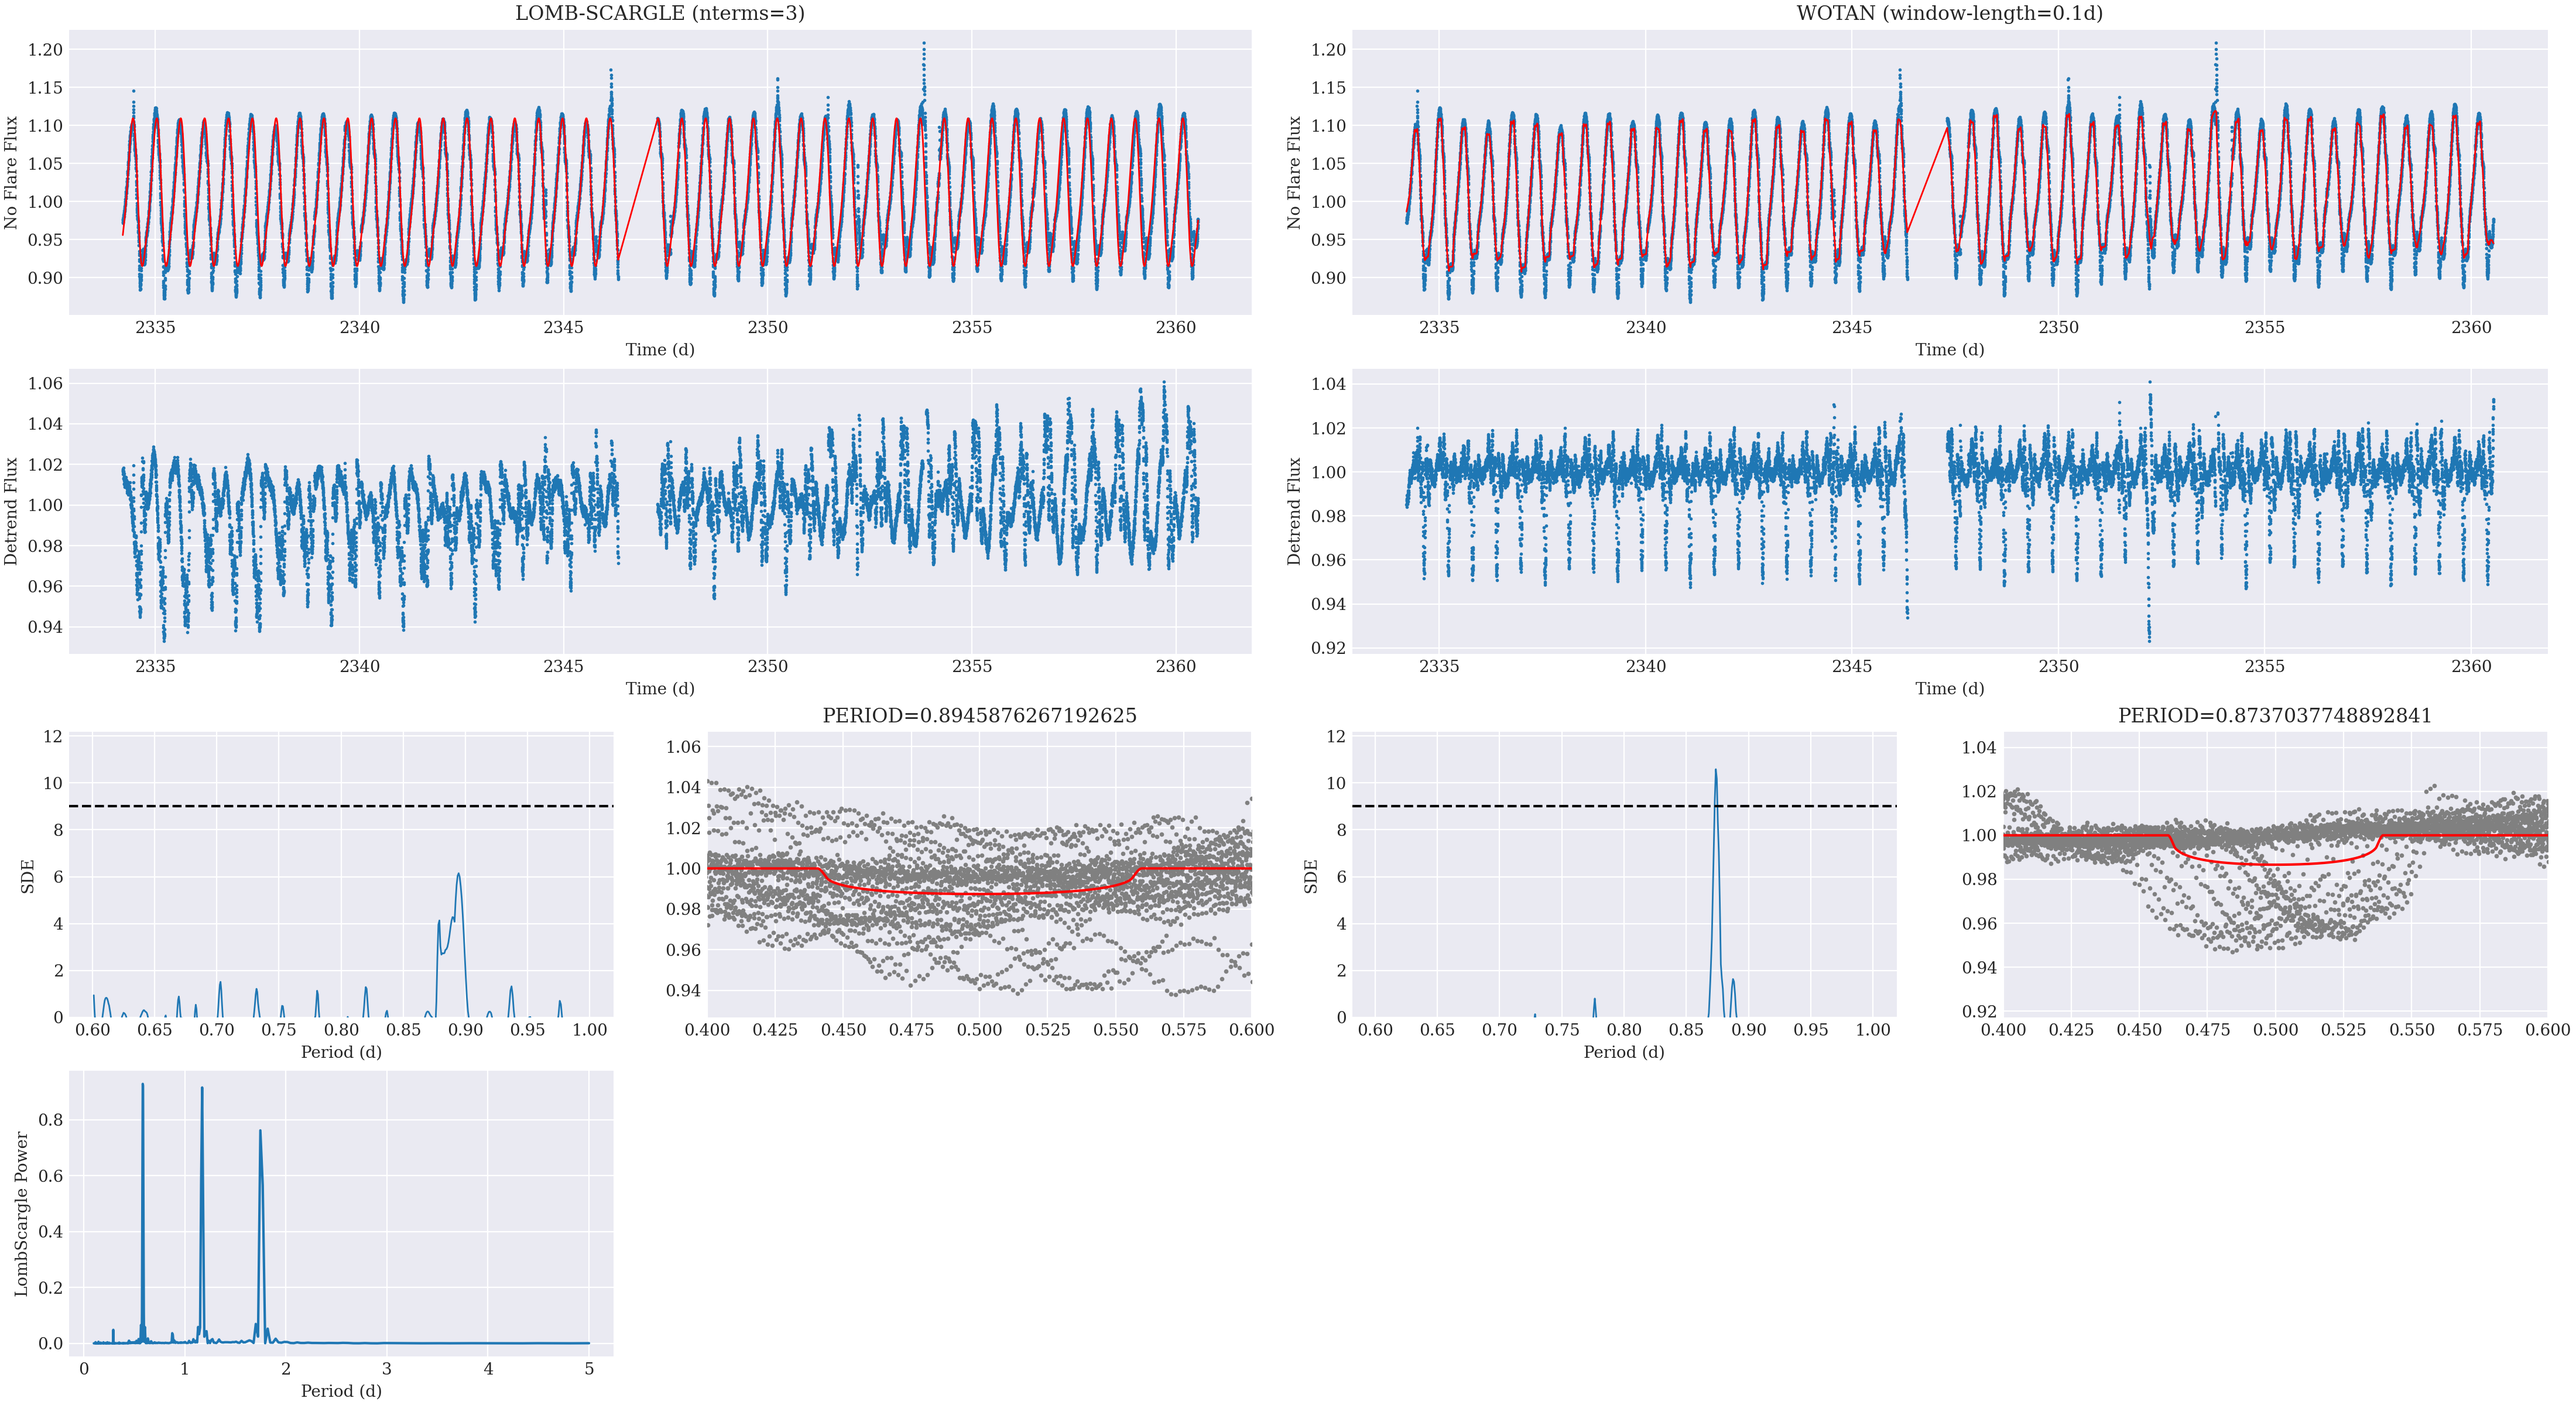
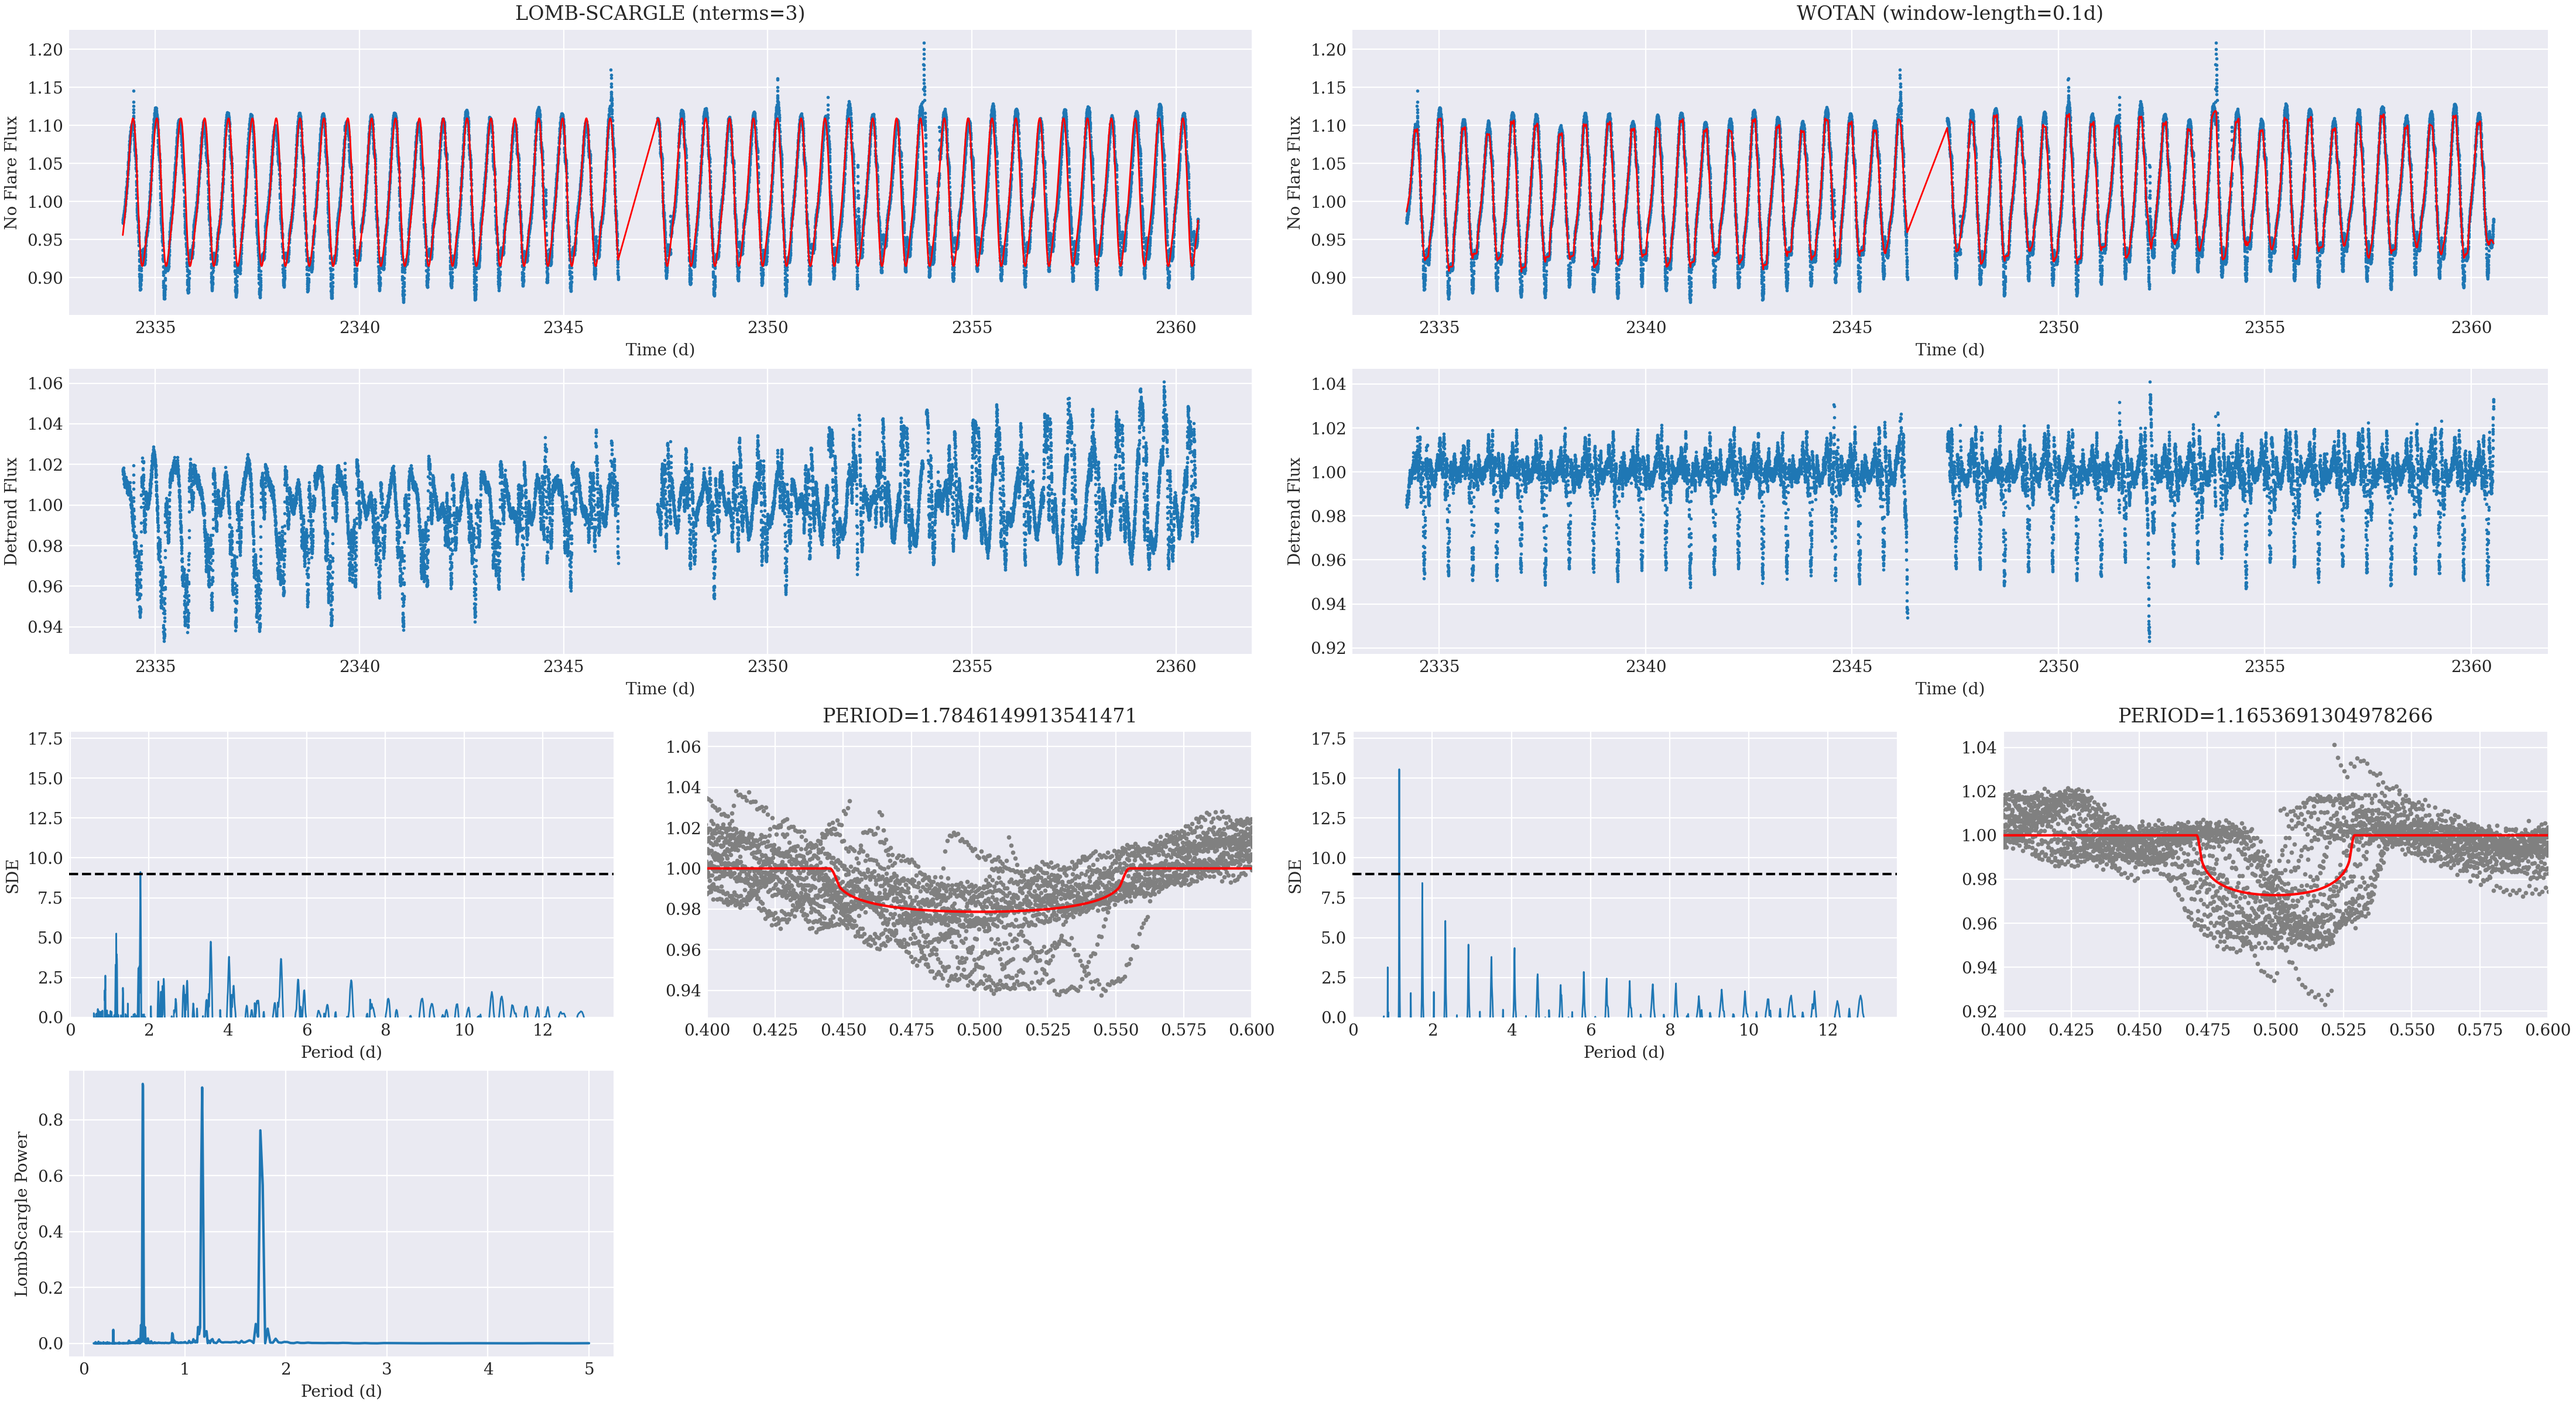
ye

diff --git a/personal_epochs/thaddaeus/june/topical/detrend_experimentation/down_to_business/to_defeat.py b/personal_epochs/thaddaeus/june/topical/detrend_experimentation/down_to_business/to_defeat.py
@@ -76,10 +76,10 @@ def the_huns(tic_id:str):
 
     ab, mass, mass_min, mass_max, radius, radius_min, radius_max = catalog_info(TIC_ID=int(tic_id.replace('TIC_','')))
     ls_tls_model = transitleastsquares(ls_clean_time, ls_clean_flux, verbose=False)
-    ls_tls_results = ls_tls_model.power(period_min=0.1,period_max=1,
+    ls_tls_results = ls_tls_model.power(period_min=0.1,period_max=0.6,
                               verbose=False, show_progress_bar=False, use_threads=25, u=ab)
     wotan_tls_model = transitleastsquares(time, detrend_flux, verbose=False)
-    wotan_tls_results = wotan_tls_model.power(period_min=0.1,period_max=1,
+    wotan_tls_results = wotan_tls_model.power(period_min=0.1,period_max=0.6,
                               verbose=False, show_progress_bar=False, use_threads=25, u=ab)
 
     flat = np.concatenate((ls_tls_results.power, wotan_tls_results.power))
